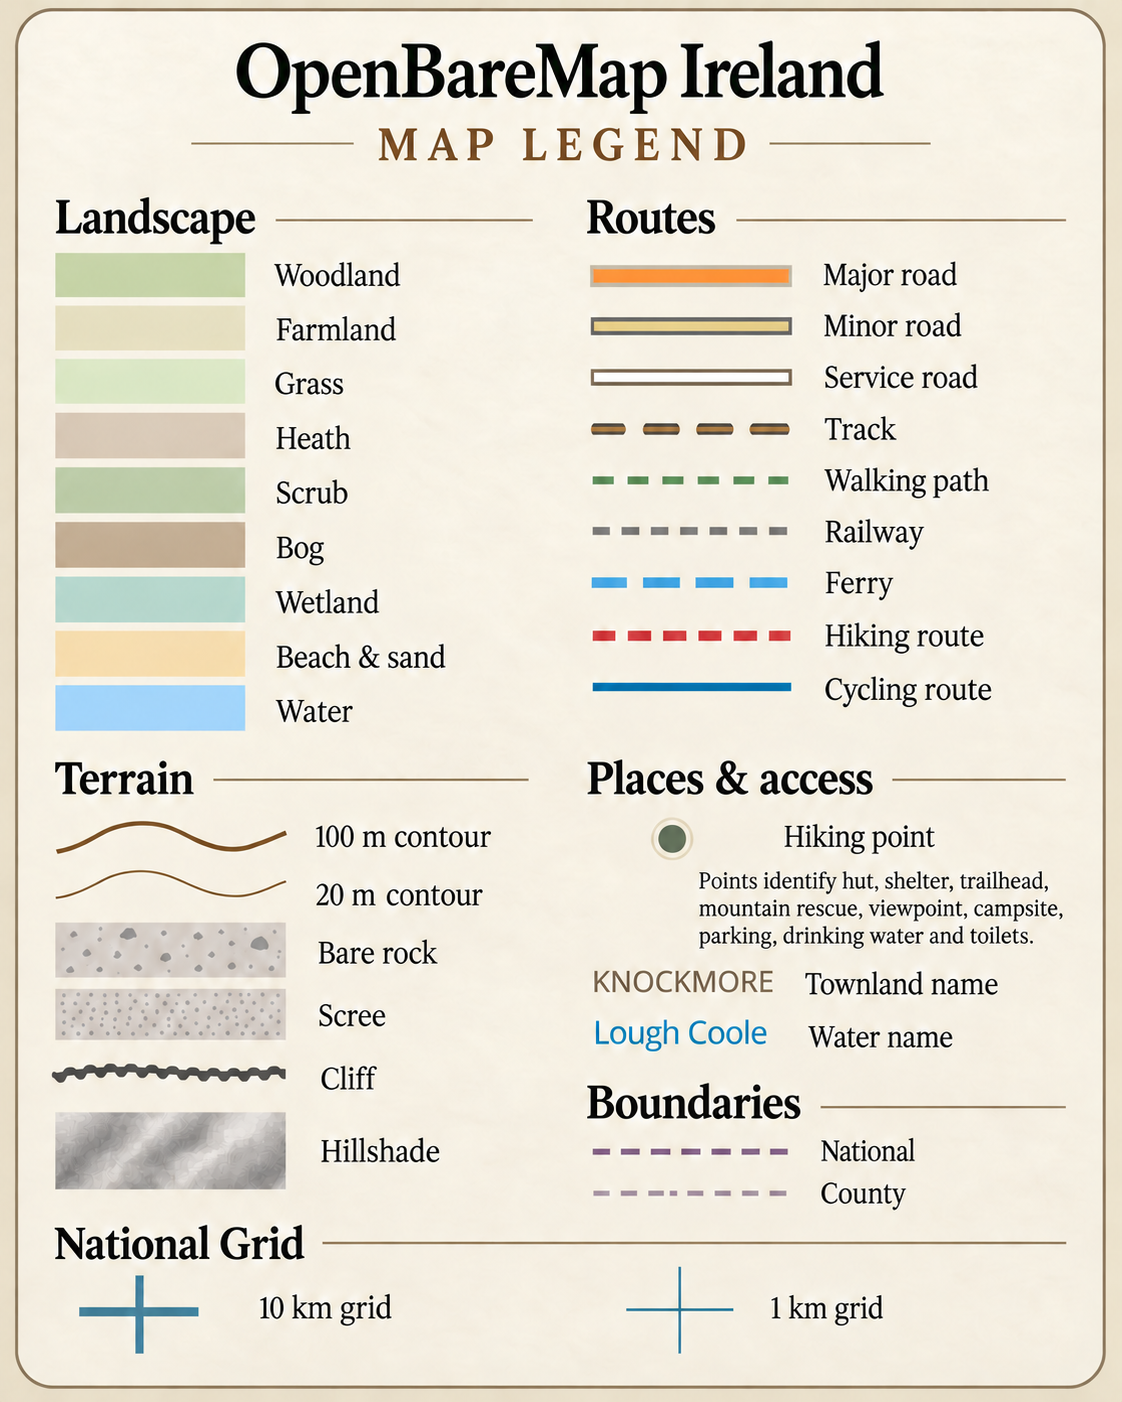
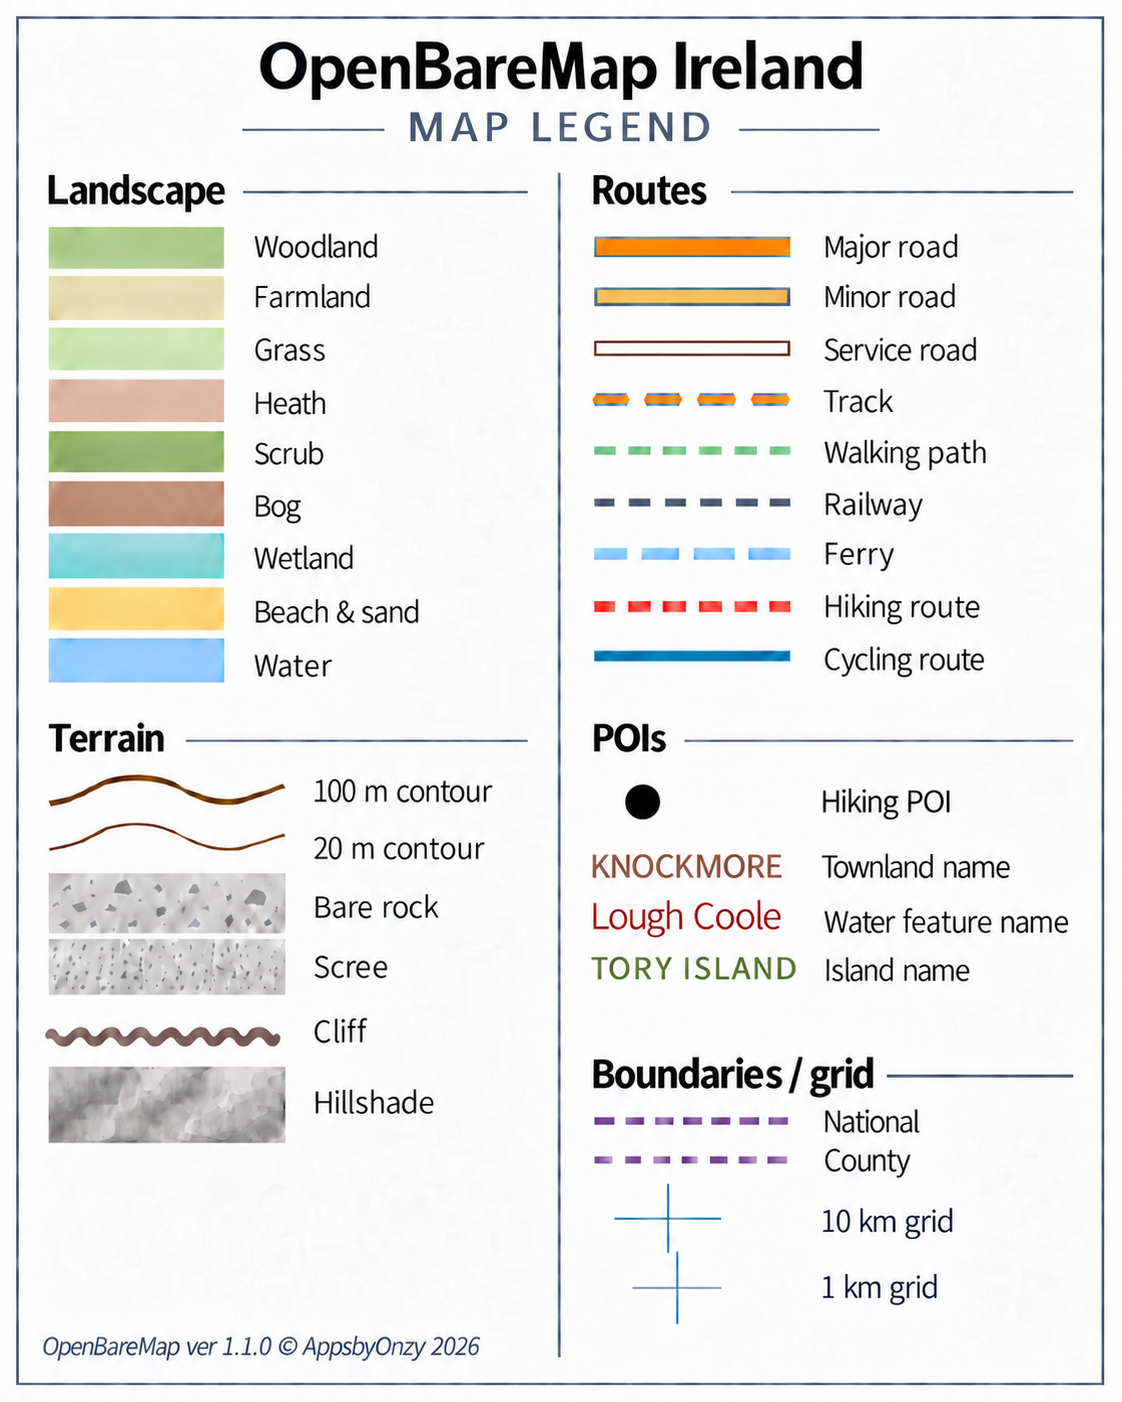
Update OpenBareMap to 1.1

diff --git a/MapHills/Core/Map/MapStyleURLProvider.swift b/MapHills/Core/Map/MapStyleURLProvider.swift
@@ -55,11 +55,28 @@ struct MapStyleURLProvider {
                 "grid.mbtiles",
                 "islands.mbtiles"
             ]
+            let sourcePlaceholders = [
+                "PASTE_YOUR_LOCAL_TILE_SOURCE_HERE": "ireland.mbtiles",
+                "PASTE_YOUR_LOCAL_CONTOUR_SOURCE_HERE": "contours.mbtiles",
+                "PASTE_YOUR_LOCAL_ENVIRONMENT_SOURCE_HERE": "environment.mbtiles",
+                "PASTE_YOUR_LOCAL_HILLSHADE_SOURCE_HERE": "hillshade.mbtiles",
+                "PASTE_YOUR_LOCAL_HIKING_SOURCE_HERE": "hiking.mbtiles",
+                "PASTE_YOUR_LOCAL_GRID_SOURCE_HERE": "grid.mbtiles",
+                "PASTE_YOUR_LOCAL_ISLAND_SOURCE_HERE": "islands.mbtiles"
+            ]
 
             for sourceName in sourceNames {
                 let absoluteSourceURL = "mbtiles://\(bundleURL.path)/\(sourceName)"
                 styleJSON = styleJSON.replacingOccurrences(
                     of: "mbtiles://\(sourceName)",
+                    with: absoluteSourceURL
+                )
+            }
+
+            for (placeholder, sourceName) in sourcePlaceholders {
+                let absoluteSourceURL = "mbtiles://\(bundleURL.path)/\(sourceName)"
+                styleJSON = styleJSON.replacingOccurrences(
+                    of: placeholder,
                     with: absoluteSourceURL
                 )
             }
@@ -81,6 +98,11 @@ struct MapStyleURLProvider {
                 of: #""data":\s*"\./([^"]+\.geojson)""#,
                 with: "\"data\": \"file://\(bundleURL.path)/$1\"",
                 options: .regularExpression
+            )
+
+            styleJSON = styleJSON.replacingOccurrences(
+                of: "file://\(bundleURL.path)/townlands.geojson",
+                with: "file://\(bundleURL.path)/style/townlands.geojson"
             )
 
             let resolvedStyleURL = fileManager.temporaryDirectory
